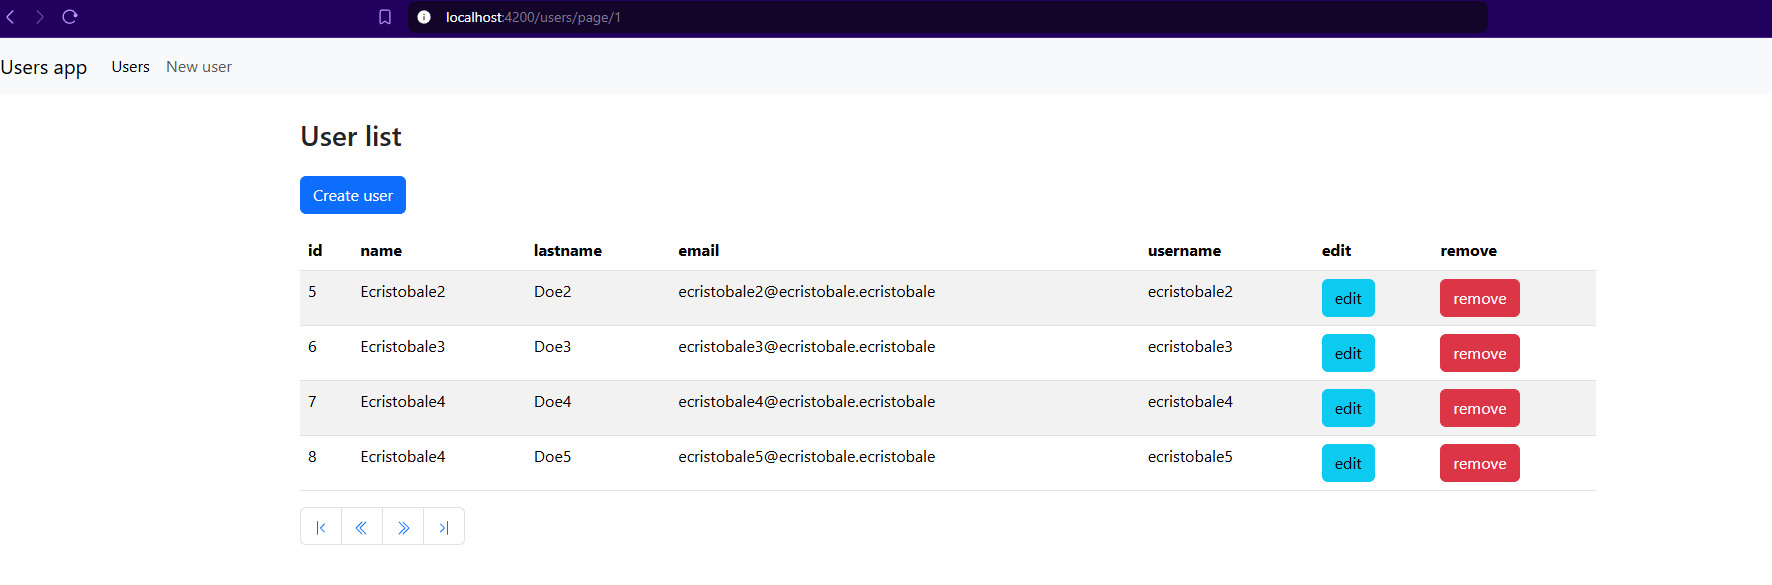
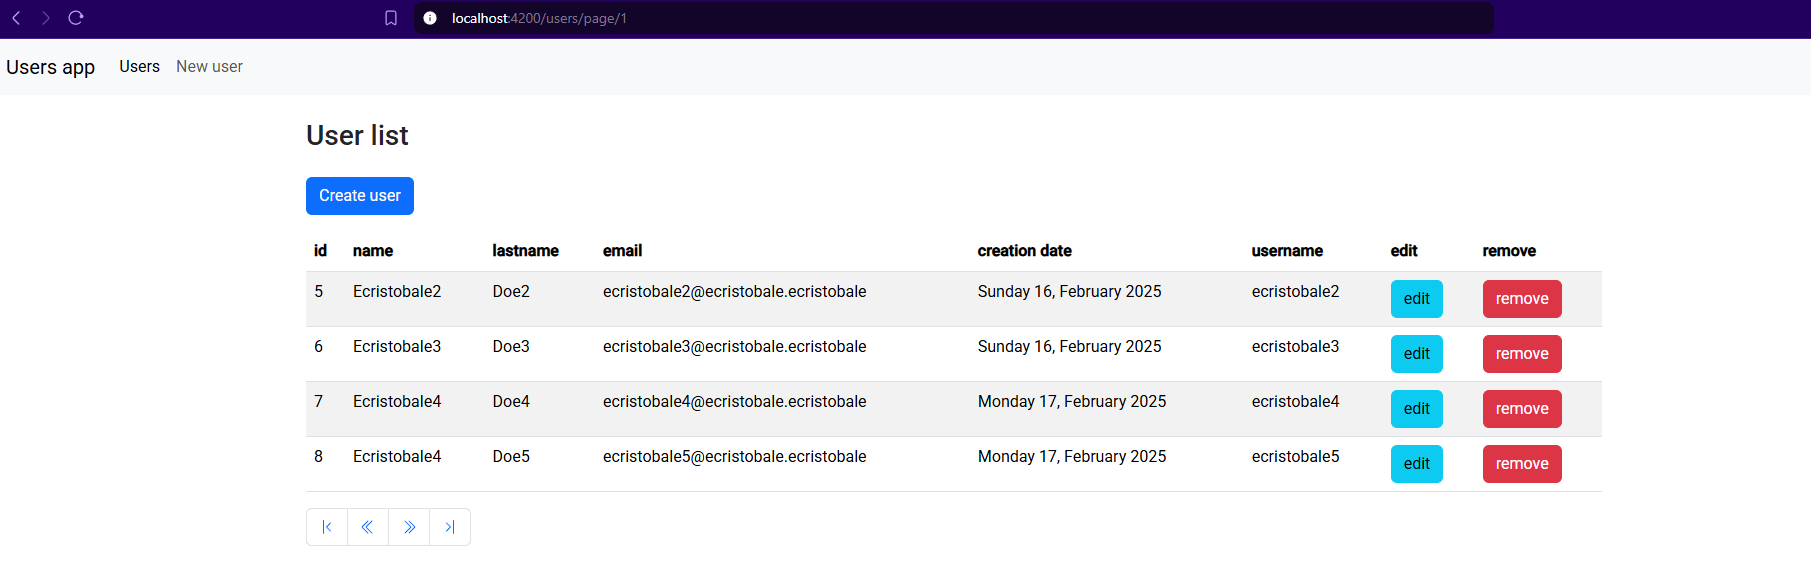
Updated README.md and refactor code

diff --git a/fullstack-CRUD-users-app/angular-user-app/src/app/components/navbar/navbar.component.html b/fullstack-CRUD-users-app/angular-user-app/src/app/components/navbar/navbar.component.html
@@ -1,18 +1,18 @@
-<nav class="navbar navbar-expand-lg bg-body-tertiary">
-    <div class="container-fluid">
-      <a class="navbar-brand" href="#">Users app</a>
-      <button class="navbar-toggler" type="button" data-bs-toggle="collapse" data-bs-target="#navbarNav" aria-controls="navbarNav" aria-expanded="false" aria-label="Toggle navigation">
-        <span class="navbar-toggler-icon"></span>
-      </button>
-      <div class="collapse navbar-collapse" id="navbarNav">
-        <ul class="navbar-nav">
-          <li class="nav-item">
-            <a class="nav-link active" aria-current="page" [routerLink]="['/users']" [state]="{paginator}" >Users</a>
-          </li>
-          <li class="nav-item">
-            <a class="nav-link" [routerLink]="['/users/create']">New user</a>
-          </li>
-        </ul>
-      </div>
+<nav class="navbar navbar-expand-lg bg-body-secondary">
+  <div class="container-fluid">
+    <a class="navbar-brand" href="#">Users Web App: Spring Boot 3 & Angular 19</a>
+    <button class="navbar-toggler" type="button" data-bs-toggle="collapse" data-bs-target="#navbarNav" aria-controls="navbarNav" aria-expanded="false" aria-label="Toggle navigation">
+      <span class="navbar-toggler-icon"></span>
+    </button>
+    <div class="collapse navbar-collapse" id="navbarNav">
+      <ul class="navbar-nav">
+        <li class="nav-item">
+          <a class="nav-link active" aria-current="page" [routerLink]="['/users']" [state]="{paginator}" >Users</a>
+        </li>
+        <li class="nav-item">
+          <a class="nav-link" [routerLink]="['/users/create']">Create user</a>
+        </li>
+      </ul>
     </div>
-  </nav>
+  </div>
+</nav>

diff --git a/fullstack-CRUD-users-app/angular-user-app/src/app/components/user/user.component.ts b/fullstack-CRUD-users-app/angular-user-app/src/app/components/user/user.component.ts
@@ -30,7 +30,13 @@ export class UserComponent implements OnInit {
       }
 
   ngOnInit(): void {
-    this.service.findAll().subscribe(users => this.users = users);
+    // this.service.findAll().subscribe(users => this.users = users);
+    const page = 0;
+    this.service.findAllPageable(page).subscribe( pageable => {
+      this.users = pageable.content as User[];
+      this.paginator = pageable;
+      this.sharingData.pageUsersEventEmitter.emit({users: this.users, paginator: this.paginator});
+    });
     this.route.paramMap.subscribe(params => {
       const page = +(params.get('page') || 0);
       this.service.findAllPageable(page).subscribe( pageable => {

diff --git a/fullstack-CRUD-users-app/angular-user-app/src/app/components/navbar/navbar.component.ts b/fullstack-CRUD-users-app/angular-user-app/src/app/components/navbar/navbar.component.ts
@@ -1,6 +1,5 @@
 import { Component, Input } from '@angular/core';
 import { RouterModule } from '@angular/router';
-import { User } from '../../models/user';
 
 @Component({
   selector: 'navbar',

diff --git a/README.md b/README.md
@@ -25,7 +25,8 @@ Project that uses:
  * Services: from which they emit an event by using EventEmmiters and data could be passed by subscribing to these events.
  * HttpClient: for connecting to api, expecting an observable Object.
  * Pagination: with a subcomponent and by using [Bootstrap](https://getbootstrap.com/docs/5.3/getting-started/introduction/) version 5.3 and Angular Routes to transfer page, totalPages and some metainfo retrieved from backend api.
- * Customized Alert messages with SweetAlert2 library. 
+ * Working with dates (Timestamp) using Angular Material with DatePicker.
+ * Customized Alert messages with SweetAlert2 library.
  * Html class styles with [Bootstrap](https://getbootstrap.com/docs/5.3/getting-started/introduction/) version 5.3.
  * Used new @If and @else instead of angular directives ngIf and ngFor
 
